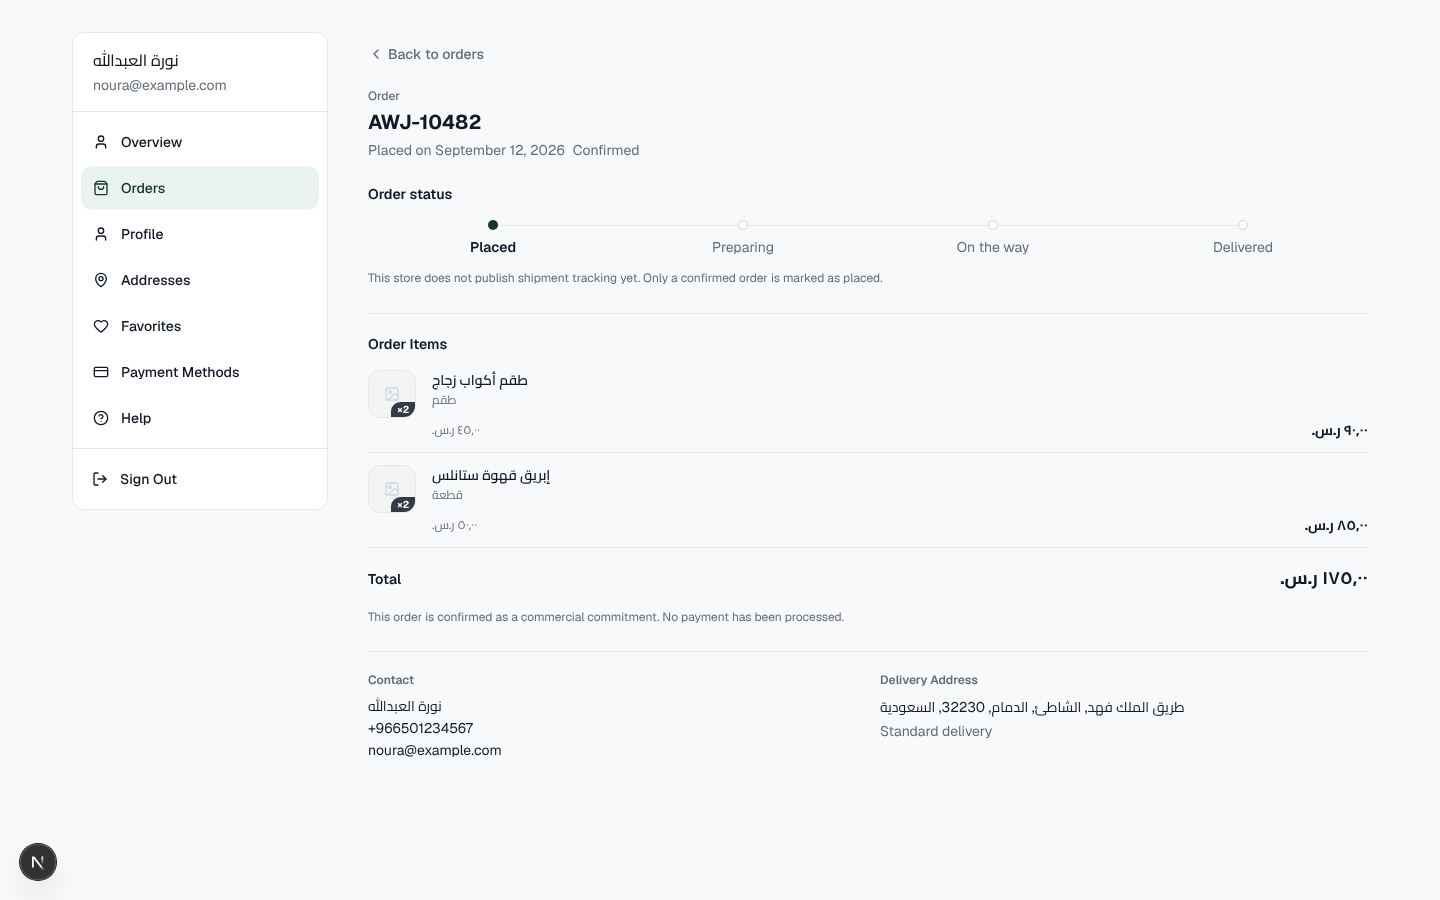
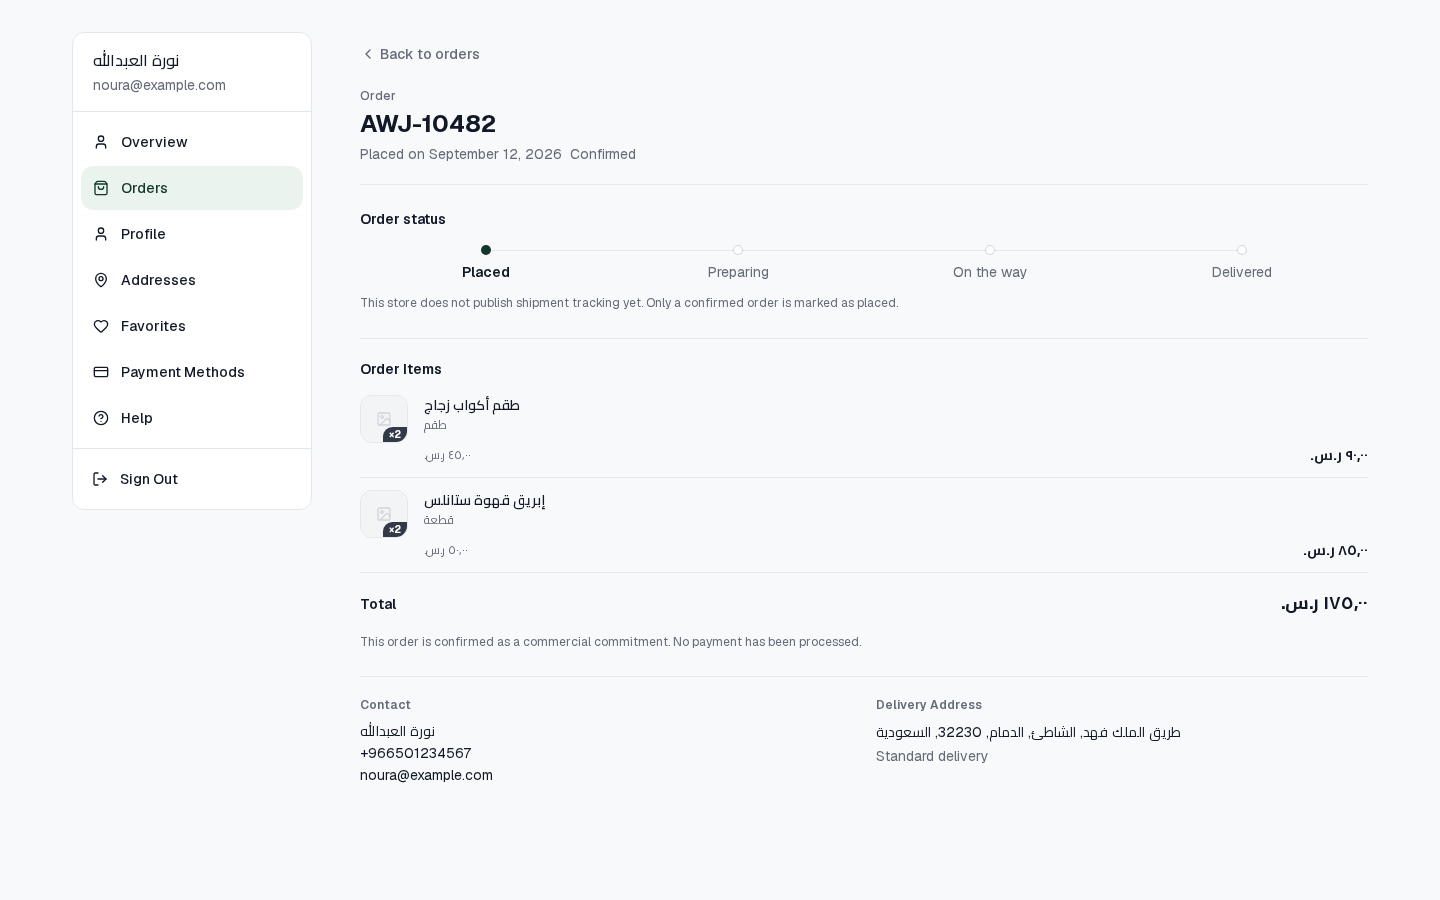
fix(store): STORE-UI-5 visual correction round 4
Desktop composition pass: full-width page headers, denser address and
payment card hierarchy, profile settings rhythm, and a slightly wider
sidebar/main gap at 1440. Mobile classes and capability states are
unchanged.

diff --git a/storefront/src/components/account/AccountPaymentMethods.tsx b/storefront/src/components/account/AccountPaymentMethods.tsx
@@ -36,16 +36,16 @@ export function AccountPaymentMethods() {
 
   return (
     <div>
-      <div className="flex flex-wrap items-end justify-between gap-3">
+      <header className="flex flex-wrap items-end justify-between gap-3 lg:items-center lg:border-b lg:border-store-border lg:pb-5">
         <h1 className="text-xl font-bold text-store-foreground lg:text-2xl">
           {t("paymentMethods")}
         </h1>
         <Button type="button" variant="outline" size="sm" onClick={refuse}>
           {t("addPaymentMethod")}
         </Button>
-      </div>
+      </header>
 
-      <div className="mt-2">
+      <div className="mt-2 lg:mt-4">
         <AccountGatedNotice
           title={t("paymentNotEnabledTitle")}
           body={t("paymentNotEnabledBody")}
@@ -59,12 +59,12 @@ export function AccountPaymentMethods() {
       )}
 
       <ul
-        className="mt-5 grid grid-cols-1 gap-3 lg:mt-6 lg:grid-cols-2 lg:gap-6"
+        className="mt-5 grid grid-cols-1 gap-3 lg:mt-8 lg:grid-cols-2 lg:gap-6"
         aria-label={t("savedMethodShape")}
       >
         {METHOD_FIXTURES.map(({ key, Icon, showExpiry, isDefault }) => (
           <li key={key}>
-            <article className="flex h-full flex-col rounded-store border border-store-border bg-store-surface px-4 py-4 lg:px-6 lg:py-6">
+            <article className="flex h-full flex-col rounded-store border border-store-border bg-store-surface px-4 py-4 lg:px-8 lg:py-7">
               <div className="flex items-start gap-3 lg:gap-4">
                 <span className="flex size-10 shrink-0 items-center justify-center rounded-store border border-store-border lg:size-12">
                   <Icon
@@ -74,16 +74,16 @@ export function AccountPaymentMethods() {
                 </span>
                 <div className="min-w-0 flex-1">
                   <div className="flex items-start justify-between gap-3">
-                    <p className="text-sm font-medium text-store-foreground lg:text-base">
+                    <p className="text-sm font-medium text-store-foreground lg:text-base lg:font-semibold">
                       {t(`savedMethod.${key}`)}
                     </p>
                     {isDefault ? (
-                      <span className="shrink-0 text-[0.6875rem] font-medium text-store-muted-foreground">
+                      <span className="shrink-0 text-[0.6875rem] font-medium text-store-muted-foreground lg:rounded-store lg:border lg:border-store-border lg:px-2 lg:py-0.5 lg:text-xs">
                         {t("defaultAddress")}
                       </span>
                     ) : null}
                   </div>
-                  <p className="mt-1 font-mono text-sm tracking-wide text-store-muted-foreground lg:mt-1.5 lg:text-base">
+                  <p className="mt-1 font-mono text-sm tracking-wide text-store-muted-foreground lg:mt-2 lg:text-base">
                     <bdi>{t("methodMask")}</bdi>
                   </p>
                   {showExpiry ? (
@@ -93,7 +93,7 @@ export function AccountPaymentMethods() {
                   ) : null}
                 </div>
               </div>
-              <div className="mt-auto pt-4 lg:pt-6">
+              <div className="mt-auto pt-4 lg:mt-6 lg:border-t lg:border-store-border lg:pt-5">
                 <Button
                   type="button"
                   variant="ghost"

diff --git a/storefront/src/components/account/AccountProfileForm.tsx b/storefront/src/components/account/AccountProfileForm.tsx
@@ -68,13 +68,15 @@ export function AccountProfileForm({ user }: { user: User }) {
 
   return (
     <div>
-      <h1 className="text-xl font-bold text-store-foreground lg:text-2xl">
-        {t("profile")}
-      </h1>
+      <header className="lg:border-b lg:border-store-border lg:pb-5">
+        <h1 className="text-xl font-bold text-store-foreground lg:text-2xl">
+          {t("profile")}
+        </h1>
+      </header>
 
       <form
         onSubmit={handleSubmit}
-        className="mt-4 w-full space-y-3 lg:mt-6 lg:space-y-5"
+        className="mt-4 w-full space-y-3 lg:mt-8 lg:space-y-6"
       >
         {error && (
           <Alert variant="destructive">
@@ -88,8 +90,8 @@ export function AccountProfileForm({ user }: { user: User }) {
           </p>
         )}
 
-        <div className="grid grid-cols-1 gap-3 sm:grid-cols-2 lg:gap-x-8 lg:gap-y-5">
-          <Field>
+        <div className="grid grid-cols-1 gap-3 sm:grid-cols-2 lg:gap-x-8 lg:gap-y-6">
+          <Field className="lg:gap-2.5">
             <FieldLabel htmlFor="first_name">{t("firstName")}</FieldLabel>
             <Input
               type="text"
@@ -101,7 +103,7 @@ export function AccountProfileForm({ user }: { user: User }) {
               }
             />
           </Field>
-          <Field>
+          <Field className="lg:gap-2.5">
             <FieldLabel htmlFor="last_name">{t("lastName")}</FieldLabel>
             <Input
               type="text"
@@ -115,8 +117,8 @@ export function AccountProfileForm({ user }: { user: User }) {
           </Field>
         </div>
 
-        <div className="grid grid-cols-1 gap-3 lg:grid-cols-2 lg:gap-x-8 lg:gap-y-5">
-          <Field>
+        <div className="grid grid-cols-1 gap-3 lg:grid-cols-2 lg:gap-x-8 lg:gap-y-6">
+          <Field className="lg:gap-2.5">
             <FieldLabel htmlFor="email">{t("emailAddress")}</FieldLabel>
             <Input
               type="email"
@@ -130,10 +132,10 @@ export function AccountProfileForm({ user }: { user: User }) {
             />
           </Field>
 
-          <Field>
+          <Field className="lg:gap-2.5">
             <FieldLabel htmlFor="phone">{t("phone")}</FieldLabel>
             <Input type="tel" id="phone" disabled readOnly value="" />
-            <p className="text-sm text-store-muted-foreground">
+            <p className="text-sm leading-relaxed text-store-muted-foreground">
               {t("phoneUnavailable")}
             </p>
           </Field>
@@ -157,7 +159,7 @@ export function AccountProfileForm({ user }: { user: User }) {
             />
             <p
               id="current_password_help"
-              className={`mt-1 text-sm ${
+              className={`mt-1.5 text-sm leading-relaxed ${
                 passwordError
                   ? "text-store-destructive"
                   : "text-store-muted-foreground"
@@ -168,7 +170,7 @@ export function AccountProfileForm({ user }: { user: User }) {
           </div>
         )}
 
-        <div className="pt-1">
+        <div className="pt-1 lg:border-t lg:border-store-border lg:pt-5">
           <Button type="submit" disabled={saving}>
             {saving ? t("saving") : t("saveChanges")}
           </Button>

diff --git a/storefront/src/components/account/AccountAddresses.tsx b/storefront/src/components/account/AccountAddresses.tsx
@@ -51,16 +51,16 @@ export function AccountAddresses() {
 
   return (
     <div>
-      <div className="flex flex-wrap items-end justify-between gap-3">
+      <header className="flex flex-wrap items-end justify-between gap-3 lg:items-center lg:border-b lg:border-store-border lg:pb-5">
         <h1 className="text-xl font-bold text-store-foreground lg:text-2xl">
           {t("addresses")}
         </h1>
         <Button type="button" variant="outline" size="sm" onClick={refuse}>
           {t("addNewAddress")}
         </Button>
-      </div>
+      </header>
 
-      <div className="mt-2">
+      <div className="mt-2 lg:mt-4">
         <AccountGatedNotice
           title={t("addressesNotEnabledTitle")}
           body={t("addressesNotEnabledBody")}
@@ -75,28 +75,28 @@ export function AccountAddresses() {
 
       <ul
         aria-label={t("addressCardShape")}
-        className="mt-5 grid grid-cols-1 gap-3 lg:mt-6 lg:grid-cols-2 lg:gap-6"
+        className="mt-5 grid grid-cols-1 gap-3 lg:mt-8 lg:grid-cols-2 lg:gap-6"
       >
         {ADDRESS_FIXTURES.map((fixture) => (
           <li key={fixture.id}>
-            <article className="flex h-full flex-col rounded-store border border-store-border bg-store-surface px-4 py-4 lg:px-6 lg:py-6">
+            <article className="flex h-full flex-col rounded-store border border-store-border bg-store-surface px-4 py-4 lg:px-8 lg:py-7">
               <div className="flex items-start justify-between gap-3">
-                <p className="min-w-0 text-sm font-medium text-store-foreground lg:text-base">
+                <p className="min-w-0 text-sm font-medium text-store-foreground lg:text-base lg:font-semibold">
                   {t(fixture.name)}
                 </p>
                 {fixture.isDefault ? (
-                  <span className="shrink-0 text-[0.6875rem] font-medium text-store-muted-foreground">
+                  <span className="shrink-0 text-[0.6875rem] font-medium text-store-muted-foreground lg:rounded-store lg:border lg:border-store-border lg:px-2 lg:py-0.5 lg:text-xs">
                     {t("defaultAddress")}
                   </span>
                 ) : null}
               </div>
-              <div className="mt-2 space-y-0.5 text-sm leading-relaxed text-store-muted-foreground lg:mt-3 lg:space-y-1">
+              <div className="mt-2 space-y-0.5 text-sm leading-relaxed text-store-muted-foreground lg:mt-4 lg:space-y-1">
                 <p>{t(fixture.line1)}</p>
                 <p>{t(fixture.line2)}</p>
                 <p>{t(fixture.cityPostal)}</p>
                 <p>{t(fixture.country)}</p>
               </div>
-              <div className="mt-auto flex flex-wrap gap-2 pt-4 lg:pt-6">
+              <div className="mt-auto flex flex-wrap gap-2 pt-4 lg:mt-6 lg:border-t lg:border-store-border lg:pt-5">
                 <Button
                   type="button"
                   variant="outline"

diff --git a/storefront/src/components/account/AccountOrderDetail.tsx b/storefront/src/components/account/AccountOrderDetail.tsx
@@ -80,11 +80,11 @@ export function AccountOrderDetail({
         {t("backToOrders")}
       </Link>
 
-      <header>
+      <header className="lg:border-b lg:border-store-border lg:pb-5">
         <p className="text-xs font-medium text-store-muted-foreground">
           {t("order")}
         </p>
-        <h1 className="mt-1 text-xl font-bold text-store-foreground">
+        <h1 className="mt-1 text-xl font-bold text-store-foreground lg:text-2xl">
           <bdi>{order.number}</bdi>
         </h1>
         <p className="mt-1 flex flex-wrap gap-x-2 gap-y-0.5 text-sm text-store-muted-foreground">

diff --git a/storefront/src/components/account/AccountShell.tsx b/storefront/src/components/account/AccountShell.tsx
@@ -79,7 +79,7 @@ export function AccountShell({
 
   return (
     <StoreContainer className="py-5 sm:py-7 lg:py-8">
-      <div className="flex flex-col gap-6 lg:flex-row lg:items-start lg:gap-8 xl:gap-10">
+      <div className="flex flex-col gap-6 lg:flex-row lg:items-start lg:gap-8 xl:gap-12">
         <aside className="hidden lg:block lg:w-56 lg:shrink-0 xl:w-60">
           <div className="overflow-hidden rounded-store border border-store-border bg-store-surface lg:sticky lg:top-24">
             <div className="border-b border-store-border px-5 py-4">

diff --git a/docs/plans/store/STORE-UI-5-IMPLEMENTATION-REPORT.md b/docs/plans/store/STORE-UI-5-IMPLEMENTATION-REPORT.md
@@ -2,7 +2,7 @@
 
 ## 1. Status
 
-**COMPLETE pending visual re-review (correction round 3).** **Not merged, not deployed.**
+**COMPLETE pending visual re-review (correction round 4).** **Not merged, not deployed.**
 `NO VISUAL APPROVAL = NO MERGE` is respected.
 
 ## 2. Git
@@ -12,7 +12,7 @@
 | **Latest main SHA** | `30979a1bb499cfe8b0e656495805e50225027530` — STORE-UI-4 merge (PR #866) |
 | **Base SHA** | `30979a1bb499cfe8b0e656495805e50225027530` (verified ancestor of this branch) |
 | **Branch** | `feat/store-ui-5-customer-account` |
-| **Head SHA** | `5199ef7f4a28d088a4eacaf40356f6de9109ef3f` |
+| **Head SHA** | round 4 — see §27 |
 | **PR** | [#868](https://github.com/safwan5001-source/Nebrax/pull/868) |
 
 `git merge-base --is-ancestor 30979a1bb499cfe8b0e656495805e50225027530 HEAD` holds.
@@ -562,9 +562,88 @@ Mobile captures from round 2 were not regenerated.
 | **Round 3 Head** | `5199ef7f4a28d088a4eacaf40356f6de9109ef3f` |
 | **PR** | [#868](https://github.com/safwan5001-source/Nebrax/pull/868) — open, not merged |
 
-## 26. Next step
+## 26. Next step after round 3
 
-Owner visual review of correction round 3 (desktop 1440). On approval, merge.
-The `DESIGN_ONLY` account capabilities then become dedicated backend tasks
-against UI that is already agreed, each with its contract already written
-down.
+Owner visual review of correction round 3 accepted the 2-column profile
+direction and withheld approval for remaining desktop composition
+(Addresses / Payment still too light; 1440 still reading as small blocks
+in a large canvas). A fourth, desktop-only composition pass follows.
+
+## 27. Visual correction round 4 (final desktop composition)
+
+Desktop-only. No mobile redesign, no MobileBottomNav change, no contract,
+capability, auth, tenant, accounting, cart, checkout, or catalog change.
+Empty vertical space is left empty — short pages stay short.
+
+| Finding | Correction |
+|---|---|
+| 1440 still read as small blocks in a large canvas; the issue was composition, not max-width | Page headers now span the full main column with a desktop-only `lg:border-b`. The header rule makes the workspace measure visible without wrapping the page in a card. |
+| Sidebar / main relationship needed to feel intentional | Sidebar stays compact (`lg:w-56` / `xl:w-60`). Gap at 1440 is `xl:gap-12`. Main remains the dominant column (1008px vs 240px). RTL sidebar at inline-end (`x=1128`); LTR at inline-start (`x=72`). |
+| Profile needed native desktop settings rhythm | 2-column form kept. Heading → form `lg:mt-8`. Row `lg:space-y-6` / `lg:gap-y-6`. Label/field `lg:gap-2.5`. Save sits on a desktop-only footer rule (`lg:border-t`). Fields stay ~488px — not viewport-stretched. No wrapping card. |
+| Addresses were the weakest desktop screen: light tiles | Same two intended addresses. Full-width header + Add. Cards `lg:px-8 lg:py-7` with three zones: name + Default chip, address block, Edit/Remove on a desktop footer rule. `lg:gap-6` between the pair. No extra addresses, no metrics, no page card. |
+| Payment methods needed the same book treatment | Same two intended methods, same DESIGN_ONLY refuse path. Matching card padding, Default chip, mask/expiry hierarchy, Remove on a desktop footer rule. No card fields, no brands, no persistence. |
+| Order detail must stay aligned with the shell | Content not redesigned. Header gets the same desktop hairline and `lg:text-2xl` number so it shares the workspace measure. Items, status journey, totals, contact, delivery, and `CommerceOrder != Invoice` are unchanged. |
+
+**Capability classification (unchanged):** Addresses and Payment methods remain **DESIGN_ONLY / GATED**.
+
+**Mobile.** Untouched. 390 inspect: aside `display:none`, form 358, inputs 358 stacked, header `border-bottom-width: 0px`, `scrollWidth === clientWidth`. MobileBottomNav not edited.
+
+**1440 verification (Playwright Chromium, no overflow):**
+
+| Surface | Sidebar | Main | Content |
+|---|---|---|---|
+| AR profile | 240 at x=1128 | 1008 at x=72 | form 1008, fields 488 × 2 |
+| EN profile | 240 at x=72 | 1008 at x=360 | form 1008, fields 488 × 2 |
+| AR addresses | 240 | 1008 | cards 492 × 282 |
+| AR payment | 240 | 1008 | cards 492 × 219 |
+| EN order detail | 240 at x=72 | 1008 at x=360 | h1 1008 wide |
+
+`scrollWidth === clientWidth` (1440) on every capture.
+
+**Changed files**
+
+- `storefront/src/components/account/AccountShell.tsx`
+- `storefront/src/components/account/AccountProfileForm.tsx`
+- `storefront/src/components/account/AccountAddresses.tsx`
+- `storefront/src/components/account/AccountPaymentMethods.tsx`
+- `storefront/src/components/account/AccountOrderDetail.tsx`
+- `docs/plans/store/STORE-UI-5-IMPLEMENTATION-REPORT.md`
+- `docs/plans/store/store-ui-5-visual-qa/desktop-1440-ar-profile.png`
+- `docs/plans/store/store-ui-5-visual-qa/desktop-1440-en-profile.png`
+- `docs/plans/store/store-ui-5-visual-qa/desktop-1440-ar-addresses.png`
+- `docs/plans/store/store-ui-5-visual-qa/desktop-1440-ar-payment.png`
+- `docs/plans/store/store-ui-5-visual-qa/desktop-1440-en-order-detail.png`
+
+**Tests**
+
+```
+pnpm exec vitest run src/components/account  →  8 files, 25 tests passed
+pnpm test                                     →  72 files, 528 tests passed
+pnpm exec biome check (changed files)         →  5 files, no fixes applied
+pnpm exec tsc --noEmit                        →  clean
+```
+
+**Visual QA (this round)** in `docs/plans/store/store-ui-5-visual-qa/`:
+
+- `desktop-1440-ar-profile.png`
+- `desktop-1440-en-profile.png`
+- `desktop-1440-ar-addresses.png`
+- `desktop-1440-ar-payment.png`
+- `desktop-1440-en-order-detail.png`
+
+Mobile set was not regenerated.
+
+**Git**
+
+| | |
+|---|---|
+| **Base SHA** | `30979a1bb499cfe8b0e656495805e50225027530` |
+| **Round 3 Head** | `5199ef7f` / docs `51068401` |
+| **Round 4 Head** | see commit after push |
+| **PR** | [#868](https://github.com/safwan5001-source/Nebrax/pull/868) — open, not merged |
+
+## 28. Next step
+
+Owner visual review of correction round 4 (desktop 1440 composition).
+On approval, merge. No merge and no deploy until then.
+
